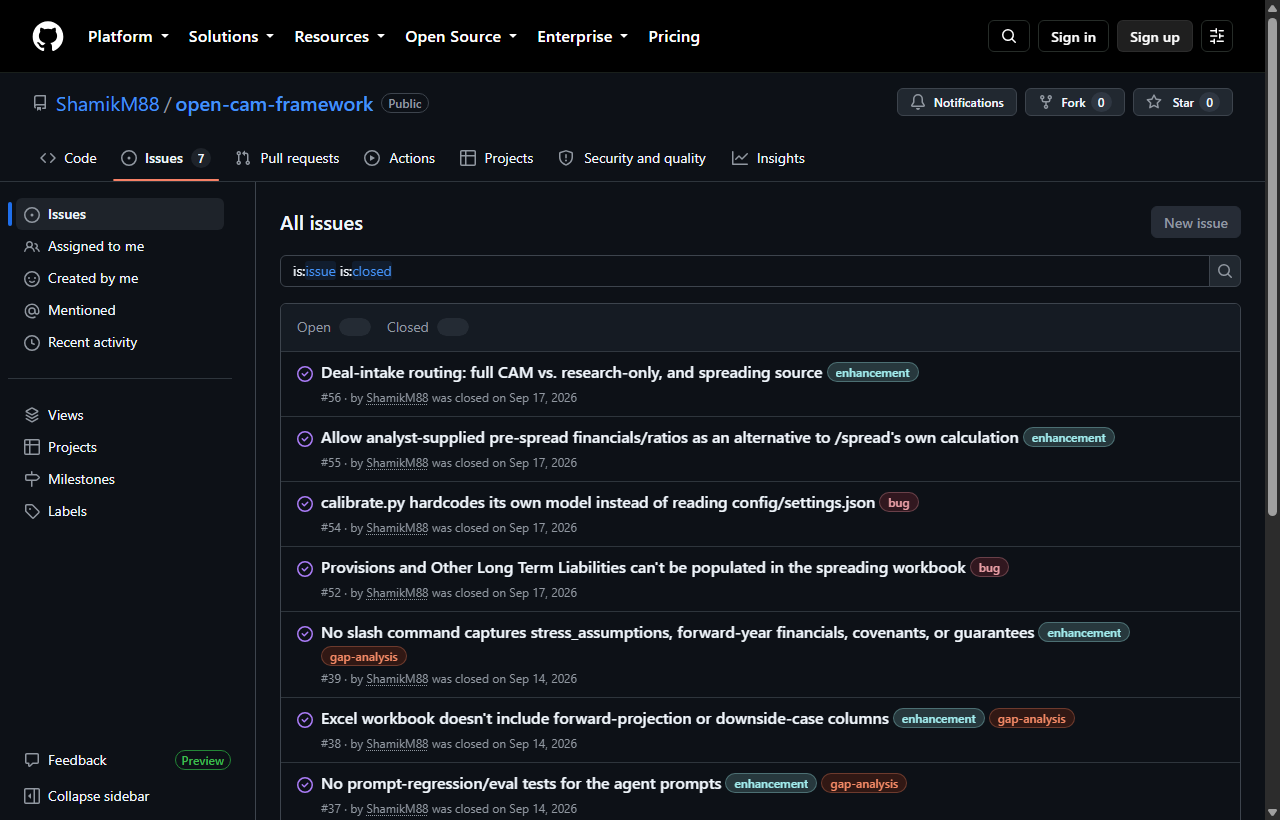
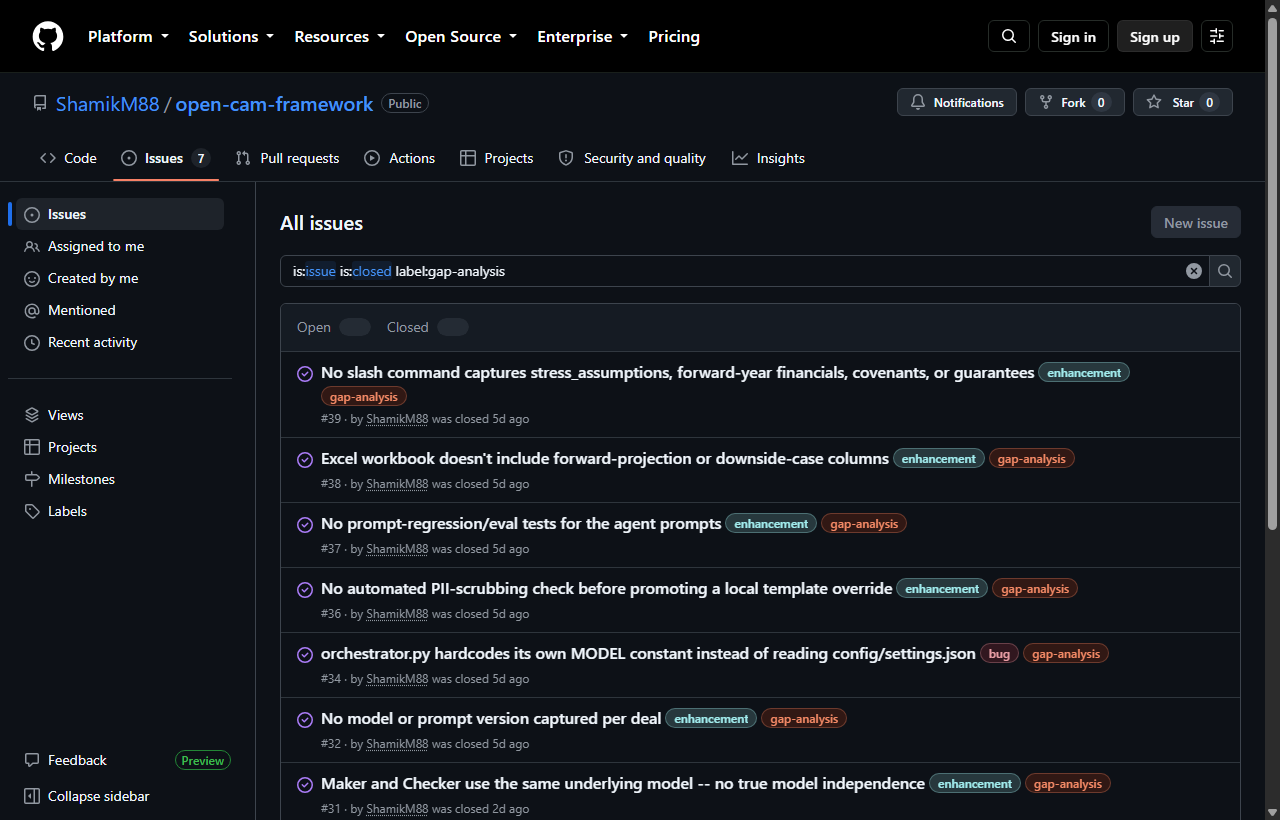
feat: live GitHub stats + precisely-labeled issue screenshot
- OpenCAM's "closed issues" screenshot now uses is:issue is:closed
  label:gap-analysis instead of a generic closed-issues query, so it
  exactly matches its own caption ("the 19-issue gap-analysis audit")
  instead of potentially including unrelated closed issues. Verified
  the real label taxonomy on the repo first (gap-analysis = "Findings
  from the architecture gap-analysis audit", enhancement = "New
  feature or request") rather than guessing label names.
- Added a captured-but-unused opencam-enhancements.png
  (label:enhancement) for a possible future placement - the
  Supporting Visuals section only has two slots and both are
  currently spoken for (PRs + gap-analysis audit).
- New live-github-stat.tsx: two client components that fetch real
  counts from GitHub's public REST API on mount and swap them in over
  a static fallback - LiveMergedPRCount (search API total_count) and
  LiveCommitsAhead (compare API's ahead_by, i.e. commits diverged from
  upstream). No auth, no server involved; this being a static export,
  "live" means the visitor's own browser asks GitHub on page load, not
  a periodic rebuild. Silently keeps the fallback number on any fetch
  failure - never shows an error state.
- Wired in: OpenCAM's header now shows a live "N+ PRs merged" badge;
  the Job Search Automation outcome stat that used to hardcode "48"
  now fetches it live via CaseStudyDetail's new outcomeStatOverrides
  prop. Verified both are genuinely live (not just rendering the
[…]

diff --git a/src/components/live-github-stat.tsx b/src/components/live-github-stat.tsx
@@ -1,0 +1,73 @@
+"use client";
+
+import * as React from "react";
+
+/**
+ * Fetches a live count from GitHub's public REST API on mount and swaps it in
+ * over the given fallback (the last-known-good static number). No auth, no
+ * server involved - this is a static-export site, so "live" means "the
+ * visitor's own browser asks GitHub," not "rebuilt on a schedule." Silently
+ * keeps the fallback if the fetch fails or GitHub's rate limit is hit -
+ * never shows an error state, since the fallback is always a real number.
+ */
+
+function useLiveCount(url: string, extract: (data: unknown) => number | undefined, fallback: number) {
+  const [value, setValue] = React.useState(fallback);
+  const [isLive, setIsLive] = React.useState(false);
+
+  React.useEffect(() => {
+    let cancelled = false;
+    fetch(url, { headers: { Accept: "application/vnd.github+json" } })
+      .then((r) => (r.ok ? r.json() : Promise.reject(new Error(String(r.status)))))
+      .then((data) => {
+        if (cancelled) return;
+        const n = extract(data);
+        if (typeof n === "number" && Number.isFinite(n)) {
+          setValue(n);
+          setIsLive(true);
+        }
+      })
+      .catch(() => {
+        /* keep the static fallback - no visible error state */
+      });
+    return () => {
+      cancelled = true;
+    };
+    // eslint-disable-next-line react-hooks/exhaustive-deps
+  }, [url]);
+
+  return { value, isLive };
+}
+
+export function LiveMergedPRCount({ repo, fallback }: { repo: string; fallback: number }) {
+  const url = `https://api.github.com/search/issues?q=${encodeURIComponent(`repo:${repo} is:pr is:merged`)}`;
+  const { value, isLive } = useLiveCount(
+    url,
+    (data) => (data as { total_count?: number }).total_count,
+    fallback,
+  );
+  return (
+    <span title={isLive ? "Fetched live from GitHub" : "Last known count"}>
+      {value}+ PRs merged
+    </span>
+  );
+}
+
+export function LiveCommitsAhead({
+  repo,
+  base,
+  fallback,
+}: {
+  repo: string;
+  /** "owner:branch" of the upstream to compare against, e.g. "MadsLorentzen:master" */
+  base: string;
+  fallback: number;
+}) {
+  const url = `https://api.github.com/repos/${repo}/compare/${base}...master`;
+  const { value, isLive } = useLiveCount(
+    url,
+    (data) => (data as { ahead_by?: number }).ahead_by,
+    fallback,
+  );
+  return <span title={isLive ? "Fetched live from GitHub" : "Last known count"}>{value}</span>;
+}

diff --git a/src/components/case-study-detail.tsx b/src/components/case-study-detail.tsx
@@ -28,6 +28,8 @@ export function CaseStudyDetail({
   visualIllustrations,
   related,
   baseRepo,
+  headerExtra,
+  outcomeStatOverrides,
 }: {
   title: string;
   badges: string[];
@@ -43,6 +45,10 @@ export function CaseStudyDetail({
   heroIllustration: ReactNode;
   visualIllustrations: [ReactNode, ReactNode];
   related: { href: string; title: string; description: string };
+  /** Extra header link(s) after View Source / baseRepo, e.g. a live PR-count badge. */
+  headerExtra?: ReactNode;
+  /** Replace a specific outcome stat's displayed value with a live-fetched ReactNode, keyed by index. */
+  outcomeStatOverrides?: Record<number, ReactNode>;
   /** Only set for projects built on someone else's open-source base. */
   baseRepo?: { url: string; label: string };
 }) {
@@ -80,6 +86,11 @@ export function CaseStudyDetail({
               <GitFork className="h-3.5 w-3.5" aria-hidden />
               {baseRepo.label}
             </a>
+          )}
+          {headerExtra && (
+            <span className="inline-flex items-center gap-1.5 rounded-lg border border-ink-200 bg-white px-3 py-1.5 text-xs font-medium text-ink-600 dark:border-white/15 dark:bg-white/5 dark:text-ink-300">
+              {headerExtra}
+            </span>
           )}
         </div>
       </div>
@@ -173,12 +184,14 @@ export function CaseStudyDetail({
           {outcomes.heading}
         </h2>
         <div className="mt-6 grid grid-cols-1 gap-4 sm:grid-cols-3">
-          {outcomes.stats.map((s) => (
+          {outcomes.stats.map((s, i) => (
             <div
               key={s.label}
               className="rounded-2xl border border-ink-200 bg-white p-5 dark:border-white/10 dark:bg-white/[0.03]"
             >
-              <p className="font-display text-2xl font-bold text-brand-600 dark:text-brand-400">{s.value}</p>
+              <p className="font-display text-2xl font-bold text-brand-600 dark:text-brand-400">
+                {outcomeStatOverrides?.[i] ?? s.value}
+              </p>
               <p className="mt-1 text-sm text-ink-600 dark:text-ink-300">{s.label}</p>
             </div>
           ))}

diff --git a/src/app/case-studies/job-search-automation/page.tsx b/src/app/case-studies/job-search-automation/page.tsx
@@ -6,6 +6,7 @@ import { Nav } from "@/components/nav";
 import { Footer } from "@/components/footer";
 import { CaseStudyDetail } from "@/components/case-study-detail";
 import { ForkBanner } from "@/components/project-thumbnails";
+import { LiveCommitsAhead } from "@/components/live-github-stat";
 import { openCam, fork } from "@/data/content";
 import { jobSearchForkMarkdown } from "@/lib/case-study-markdown";
 
@@ -66,6 +67,9 @@ export default function JobSearchAutomationPage() {
               description: openCam.subtitle,
             }}
             baseRepo={{ url: fork.baseRepoUrl, label: "Forked from MadsLorentzen/ai-job-search" }}
+            outcomeStatOverrides={{
+              1: <LiveCommitsAhead repo="ShamikM88/ai-job-search" base="MadsLorentzen:master" fallback={48} />,
+            }}
           />
         </div>
       </main>

diff --git a/src/app/case-studies/opencam/page.tsx b/src/app/case-studies/opencam/page.tsx
@@ -6,6 +6,7 @@ import { Nav } from "@/components/nav";
 import { Footer } from "@/components/footer";
 import { CaseStudyDetail } from "@/components/case-study-detail";
 import { OpenCamBanner } from "@/components/project-thumbnails";
+import { LiveMergedPRCount } from "@/components/live-github-stat";
 import { openCam, fork } from "@/data/content";
 import { openCamMarkdown } from "@/lib/case-study-markdown";
 
@@ -65,6 +66,7 @@ export default function OpenCamPage() {
               title: fork.shortTitle,
               description: fork.subtitle,
             }}
+            headerExtra={<LiveMergedPRCount repo="ShamikM88/open-cam-framework" fallback={37} />}
           />
         </div>
       </main>
